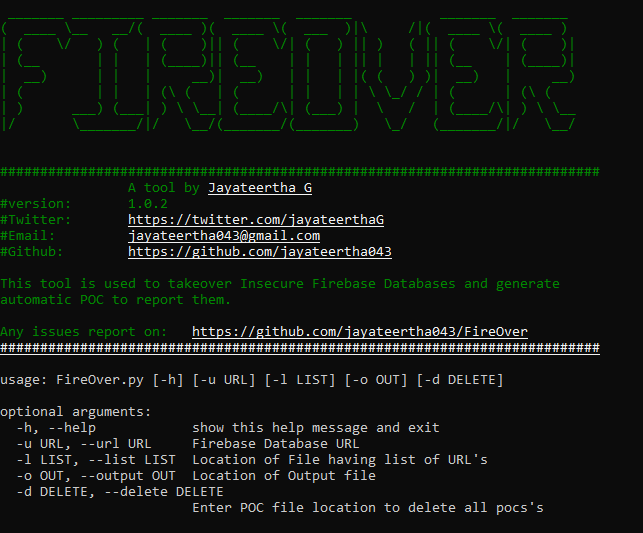
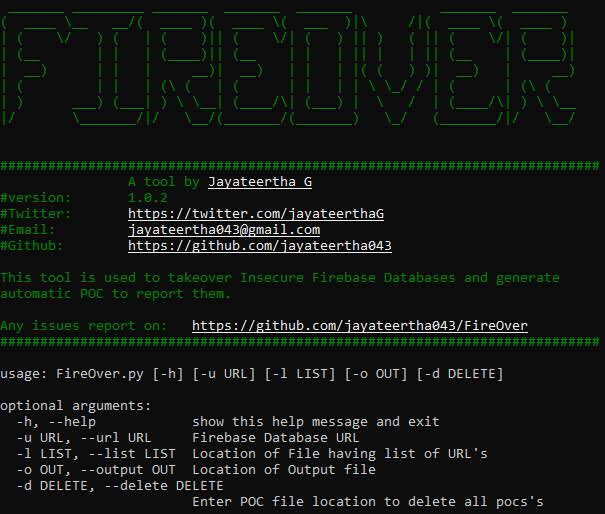
demo

diff --git a/util/banner.py b/util/banner.py
@@ -19,6 +19,6 @@ banner='''
 This tool is used to takeover Insecure Firebase Databases and generate 
 automatic POC to report them.
 
-Any issues report on:\t[wUB]https://github.com/jayateertha043/FireOver
+Any issues report on:\t[wUB]https://github.com/jayateertha043/FireOver@
 ###########################################################################
 '''

diff --git a/README.md b/README.md
@@ -1,19 +1,31 @@
-<h1 align="center">Welcome to FireOver 👋</h1>
+<h1 align="center">FireOver</h1>
 <p>
   <img alt="Version" src="https://img.shields.io/badge/version-1.0.2-blue.svg?cacheSeconds=2592000" />
   <a href="https://github.com/jayateertha043/FireOver/blob/master/LICENCE.txt" target="_blank">
     <img alt="License: MITT" src="https://img.shields.io/badge/License-MITT-yellow.svg" />
   </a>
   <a href="https://twitter.com/jayateerthaG" target="_blank">
-    <img alt="Twitter: jayateerthaG" src="https://img.shields.io/twitter/follow/jayateerthaGG.svg?style=social" />
+    <img alt="Twitter: jayateerthaG" src="https://img.shields.io/twitter/follow/jayateerthaG.svg?style=social" />
   </a>
 </p>
 
-> This tool is used to takeover Insecure Firebase Databases and generate
+> This tool is used to takeover Insecure Firebase Databases and automaticaly generate POC to report them,This tool can also delete the POC's done(to remove the datas inserted into the database by this tool).
 
 ## REQUIREMENTS AND INSTALLATION
 
 pip install -r requirements.txt
+
+
+## USAGE:
+<img alt="USAGE" src="https://github.com/jayateertha043/FireOver/blob/master/usage.PNG"><br />
+python FireOver.py -u https://FirebaseDatabaseName.firebaseio.com
+python FireOver.py --url https://FirebaseDatabaseName.firebaseio.com
+
+python FireOver.py -l list.txt -o poc.txt
+python FireOver.py --list list.txt -o poc.txt
+
+python FireOver.py -d poc.txt
+python FireOver.py --delete poc.txt
 
 ## Author
 
@@ -23,7 +35,7 @@ pip install -r requirements.txt
 * Github: [@jayateerthaa043](https://github.com/jayateerthaa043)
 
 ## Show your support
-<a href="https://www.buymeacoffee.com/en3EoKG7j" target="_blank"><img src="https://cdn.buymeacoffee.com/buttons/default-orange.png" alt="Buy Me A Coffee" style="height: 51px !important;width: 217px !important;" ></a><br />
+<a href="https://www.buymeacoffee.com/en3EoKG7j" target="_blank"><img src="https://cdn.buymeacoffee.com/buttons/default-orange.png" alt="Buy Me A Coffee" style="height: 50px !important;width: 100px !important;" ></a><br />
 Give a ⭐ if this project helped you!
 
 
